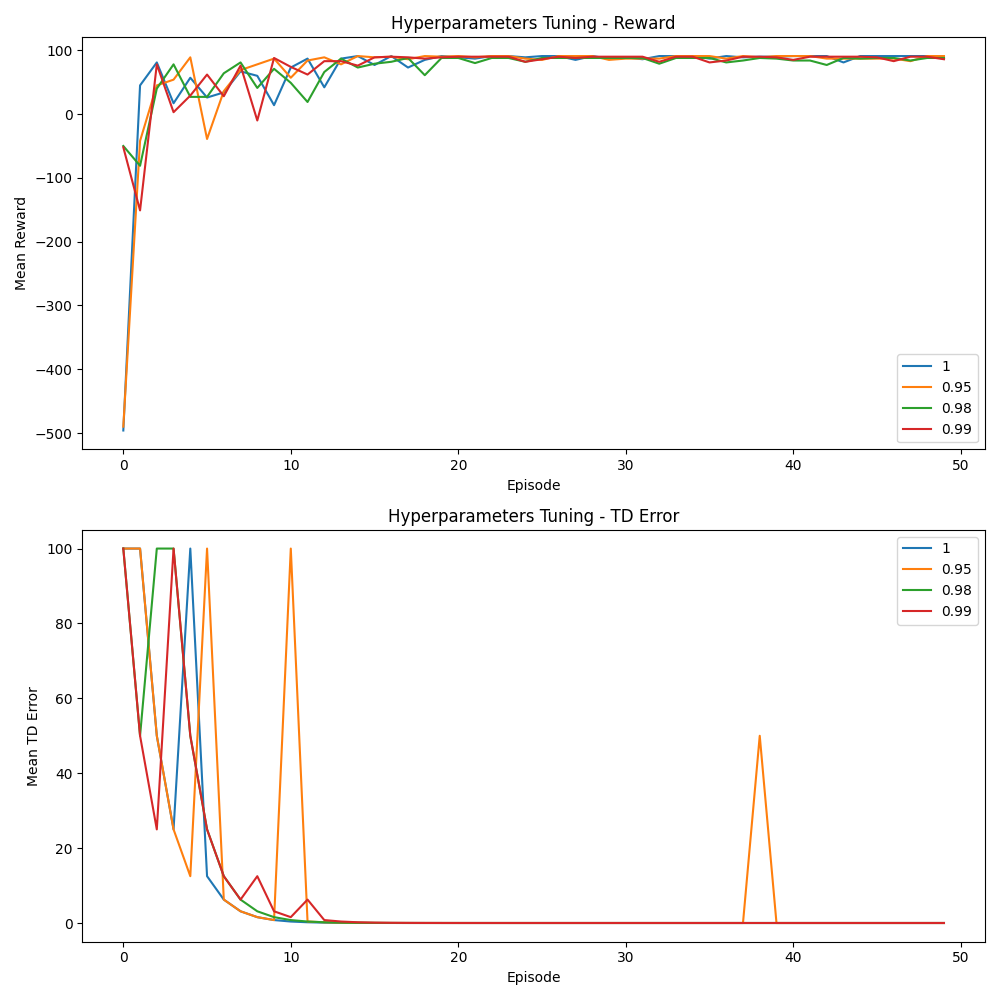
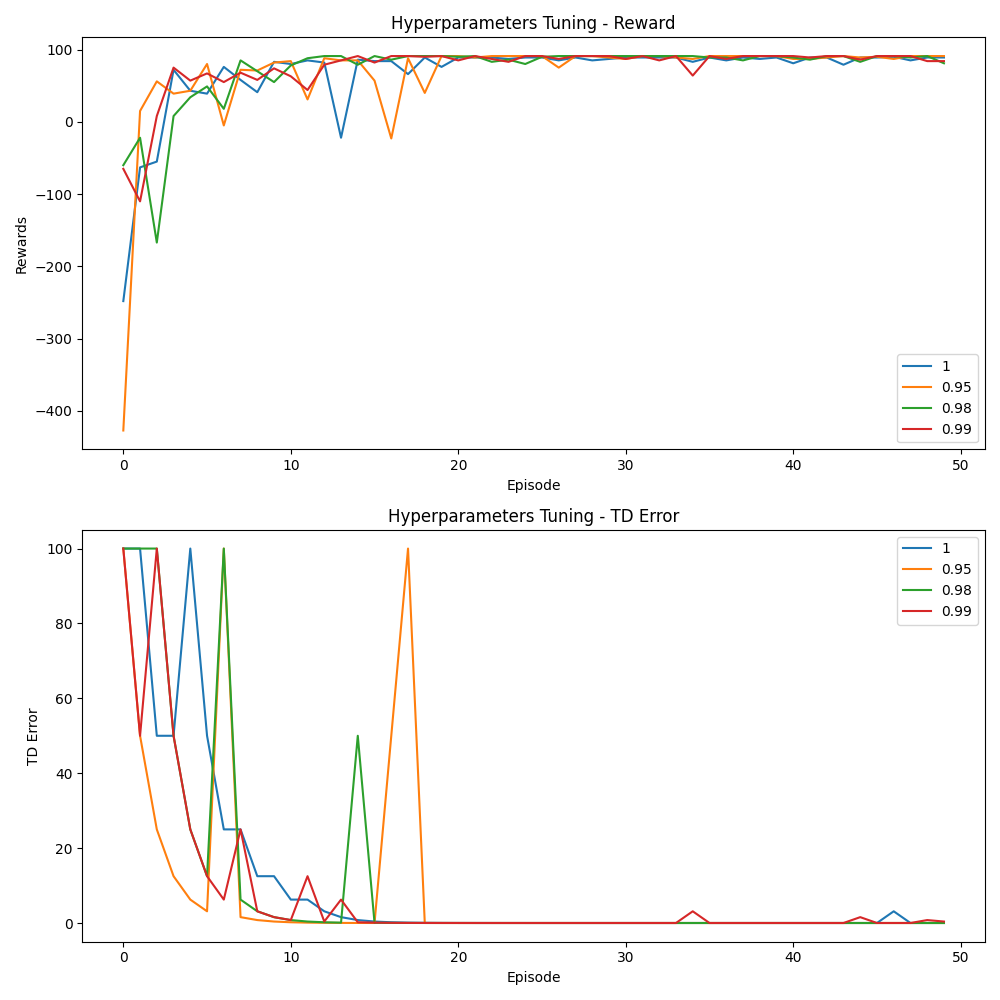
plotting

diff --git a/Main.py b/Main.py
@@ -13,6 +13,10 @@ from Environment import Environment
 import time
 from tree_search_agents import AStarAgent
 import matplotlib.pyplot as plt
+from matplotlib.colors import LinearSegmentedColormap
+import seaborn as sns
+import PIL
+import imageio
 
 GRID_DIR = "grid_worlds/"
 
@@ -22,21 +26,37 @@ def run_experiment(env, agent, hyperparams, param_name, default_params):
     actions = ["UP", "LEFT", "DOWN", "RIGHT"]
     for param in hyperparams[param_name]:
         default_params[param_name] = param
-
         agent_created = agent(env, 42, **default_params)
-        
         start_time = time.time_ns()
-        td_errors, rewards = agent_created.train(**{"param_name":{param_name}})
+        kwargs = {"param_name":param_name, "param_value": param}
+        td_errors, rewards, q_history = agent_created.train(**kwargs)
         path, score = agent_created.validate()
         end_time = time.time_ns()
         print("Actions:", [actions[i] for i in path])
         print("Score:", score)
         print("Elapsed Time (ms):", (end_time - start_time) * 1e-6)
-
+        plot_training(q_history, agent_created, param_name=param_name, param_value=param)
         experiments.append((param, td_errors, rewards))
         
     plot_experiments(experiments=experiments, agent_name=agent_created.name, exp_name=param_name)
     return experiments, agent_created
+
+def plot_training(q_history, agent, param_name, param_value):
+    filenames = []
+    colors = ["red", "green"]
+    cmap = LinearSegmentedColormap.from_list("custom", colors)
+    # TODO plot goal and starting grids
+    for i, q_values in enumerate(q_history):
+        max_Q_values = np.max(q_values, axis=1).reshape((agent.env.grid_size, agent.env.grid_size))
+        plt.figure(figsize=(10,10))
+        sns.heatmap(max_Q_values, annot=True, fmt=".2f", cmap=cmap, square=True)
+        plt.title(f'Maximum Q-values - Episode {i}')
+        filenames.append(f"./temp_figures/heatmap_{i}.png")
+        plt.savefig(f'./temp_figures/heatmap_{i}.png') # Save each figure with a different name
+        plt.close()
+
+    images = [imageio.imread(filename) for filename in filenames]
+    imageio.mimsave(f'./figures/training_heatmap_{agent.name}_{param_name}_{param_value}.gif', images, duration=0.1)
 
 def plot_experiments(experiments, agent_name, exp_name):
     fig, axs = plt.subplots(2, figsize=(10, 10))
@@ -46,12 +66,12 @@ def plot_experiments(experiments, agent_name, exp_name):
         axs[1].plot(td_errors, label=params)
 
     axs[0].set_xlabel('Episode')
-    axs[0].set_ylabel('Mean Reward')
+    axs[0].set_ylabel('Rewards')
     axs[0].legend(loc='best')
     axs[0].set_title('Hyperparameters Tuning - Reward')
 
     axs[1].set_xlabel('Episode')
-    axs[1].set_ylabel('Mean TD Error')
+    axs[1].set_ylabel('TD Error')
     axs[1].legend(loc='best')
     axs[1].set_title('Hyperparameters Tuning - TD Error')
 

diff --git a/rl_agents/SARSA.py b/rl_agents/SARSA.py
@@ -51,7 +51,7 @@ class SARSAAgent(RLAgent):
 
         # If you want to use more parameters, you can initiate below
 
-    def train(self, experiment=False, **kwargs):
+    def train(self, **kwargs):
         """
         DO NOT CHANGE the name, parameters and return type of the method.
 
@@ -61,7 +61,8 @@ class SARSAAgent(RLAgent):
         :return: Nothing
         """
         td_errors = []
-        rewards = [] 
+        rewards = []
+        QValues_history = []
         for episode in range(self.max_episode):
             state = self.env.reset()
             action = self.act(state, is_training=True)
@@ -77,20 +78,15 @@ class SARSAAgent(RLAgent):
                 td_error = td_target - self.Q[state, action]
                 old_Q = self.Q[state, action]
                 self.Q[state, action] += self.alpha * td_error
-                # max_q_change = np.abs(old_Q - self.Q).max()
                 state = next_state
                 action = next_action
-                # if experiment:
-                #     print(max_q_change)
-                #     if max_q_change < self.epsilon:
-                #         return True
-                #     return False
             if self.epsilon > self.epsilon_min:
                 self.epsilon *= self.epsilon_decay
             td_errors.append(td_error)
             rewards.append(total_reward)
-        # self.save_vs(td_errors, rewards, filename="SARSA")
-        return td_errors, rewards
+            QValues_history.append(self.Q.copy())
+        self.save_vs(td_errors, rewards, filename="SARSA", param_name=kwargs['param_name'], param_value=[kwargs['param_value']])
+        return td_errors, rewards, QValues_history
 
     def act(self, state: int, is_training: bool) -> int:
         """

diff --git a/rl_agents/QLearning.py b/rl_agents/QLearning.py
@@ -51,6 +51,7 @@ class QLearningAgent(RLAgent):
 
         # If you want to use more parameters, you can initiate below
 
+    
     def train(self, **kwargs):
         """
         DO NOT CHANGE the name, parameters and return type of the method.
@@ -62,6 +63,7 @@ class QLearningAgent(RLAgent):
         """
         td_errors = []
         rewards = []
+        QValues_history = []
         for episode in range(self.max_episode):
             state = self.env.reset()  # get initial state
             done = False
@@ -80,8 +82,9 @@ class QLearningAgent(RLAgent):
                     self.epsilon *= self.epsilon_decay
             td_errors.append(td_error)
             rewards.append(total_reward)
-        self.save_vs(td_errors, rewards, filename="QLearning", param_name=kwargs['param_name'])
-        return td_errors, rewards
+            QValues_history.append(self.Q.copy())
+        self.save_vs(td_errors, rewards, filename="QLearning", param_name=kwargs['param_name'], param_value=[kwargs['param_value']])
+        return td_errors, rewards, QValues_history
         
 
     def act(self, state: int, is_training: bool) -> int:

diff --git a/rl_agents/RLAgent.py b/rl_agents/RLAgent.py
@@ -87,7 +87,7 @@ class RLAgent(ABC):
 
         return actions, total_reward
     
-    def save_vs(self, x_axis, y_axis, filename, param_name):
+    def save_vs(self, x_axis, y_axis, filename, param_name, param_value):
         plt.figure(figsize=(12, 6))
         plt.subplot(1, 2, 1)
         plt.plot(x_axis)
@@ -102,7 +102,7 @@ class RLAgent(ABC):
         plt.ylabel("Reward")
 
         plt.tight_layout()
-        plt.savefig(f"./figures/reward_tderror_{filename}_{param_name}.png")
+        plt.savefig(f"./figures/reward_tderror_{filename}_{param_name}_{param_value}.png")
     
             
         
